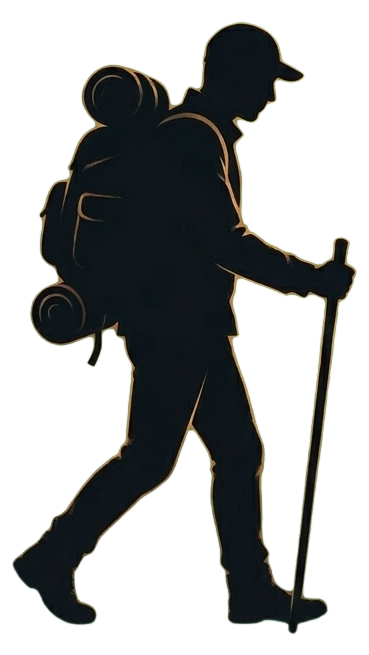
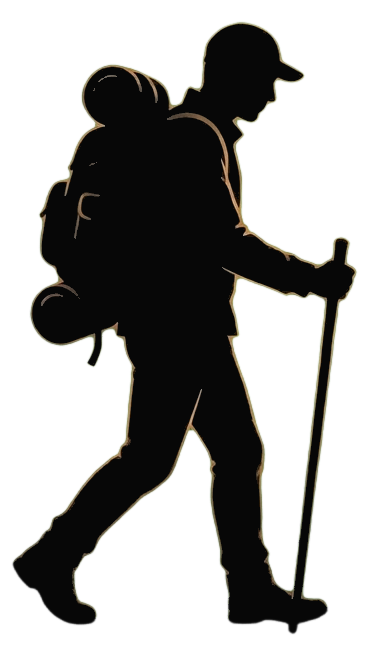
feat(mode-b): animate traveler states and camp scene
Add five supplied traveler states with transparent cutouts: walk-b, rest, arrive, walk-rain and camp-sit.

Runtime: alternate walk frames, rest after 20s idle, arrive at 90% of a leg, rain frame by weather, and seat the traveler beside the tent when camped. Add contact shadows so the character sits on the landscape.

Assets: add a white-background cutout pass, normalize walk fill to match the new states, keep originals in docs/journey-source/traveler, and document the state filenames/behavior in README, mode-b and the asset README.

Tests: 30 pass.

diff --git a/src/renderer/journey/journey-canvas.js b/src/renderer/journey/journey-canvas.js
@@ -243,9 +243,25 @@
     ctx.fill();
   }
 
+  function drawFootShadow(ctx, x, baseY, width, alpha = 0.3) {
+    ctx.save();
+    ctx.translate(x, baseY);
+    ctx.scale(1, 0.16);
+    const shadow = ctx.createRadialGradient(0, 0, 1, 0, 0, width);
+    shadow.addColorStop(0, `rgba(2, 7, 8, ${alpha})`);
+    shadow.addColorStop(0.7, `rgba(2, 7, 8, ${alpha * 0.45})`);
+    shadow.addColorStop(1, "rgba(2, 7, 8, 0)");
+    ctx.fillStyle = shadow;
+    ctx.beginPath();
+    ctx.arc(0, 0, width, 0, Math.PI * 2);
+    ctx.fill();
+    ctx.restore();
+  }
+
   function drawTraveler(ctx, state, time, assets) {
     const camped = Boolean(state.camped) || Boolean(state.runtime?.autoPaused) || Boolean(state.runtime?.paused);
     const progress = clamp(state.leg?.progress || 0, 0, 1);
+    const idleMs = Number(state.idleMs) || 0;
     // Walk the character across the strip as the leg advances, instead of
     // pinning them to one spot for the whole journey.
     const travelX = 236 + progress * 488;
@@ -271,15 +287,58 @@
       ctx.globalAlpha = 0.96;
       ctx.drawImage(image, x, y, width, height);
       ctx.restore();
+
+      if (assets.campSit) {
+        // The seated cutout includes its own log, so keep it in front of the
+        // tent and let the log provide the ground contact.
+        const sitHeight = 48;
+        const sitWidth = assets.campSit.width / assets.campSit.height * sitHeight;
+        const sitX = travelX - 46;
+        ctx.save();
+        ctx.translate(sitX, 176);
+        ctx.scale(1, 0.1);
+        const sitShadow = ctx.createRadialGradient(0, 0, 5, 0, 0, sitWidth * 0.68);
+        sitShadow.addColorStop(0, "rgba(2, 7, 8, 0.48)");
+        sitShadow.addColorStop(1, "rgba(2, 7, 8, 0)");
+        ctx.fillStyle = sitShadow;
+        ctx.beginPath();
+        ctx.arc(0, 0, sitWidth * 0.68, 0, Math.PI * 2);
+        ctx.fill();
+        ctx.restore();
+        ctx.save();
+        ctx.globalAlpha = 0.98;
+        ctx.drawImage(
+          assets.campSit,
+          sitX - sitWidth / 2,
+          176 - sitHeight,
+          sitWidth,
+          sitHeight,
+        );
+        ctx.restore();
+      }
       return;
     }
+
     if (!camped && assets?.traveler) {
-      const image = assets.traveler;
+      let image = assets.traveler;
+      // A leg's last stretch uses the arrival pose; a long pause uses the
+      // resting pose. Both are optional, so older asset folders still work.
+      if (idleMs >= 20000 && idleMs < 5 * 60 * 1000 && assets.rest) {
+        image = assets.rest;
+      } else if (progress >= 0.9 && assets.arrive) {
+        image = assets.arrive;
+      } else if (state.weather?.key === "rain" && assets.walkRain) {
+        image = assets.walkRain;
+      } else if (assets.walkB) {
+        const frame = Math.floor(time * 2.4) % 2 === 0 ? assets.walkB : assets.traveler;
+        image = frame || assets.walkB;
+      }
       const height = 54;
       const width = image.width / image.height * height;
-      const stride = Math.sin(time * 4.2);
-      const bob = stride * 1.2;
-      const lean = stride * 0.012;
+      const stride = state.weather?.key === "rain" ? Math.sin(time * 5.6) : Math.sin(time * 4.2);
+      const bob = image === assets.rest || image === assets.arrive ? 0 : stride * 1.2;
+      const lean = image === assets.rest || image === assets.arrive ? 0 : stride * 0.012;
+      drawFootShadow(ctx, travelX, 176, width * 0.72, image === assets.rest ? 0.2 : 0.3);
       ctx.save();
       ctx.translate(travelX, 176 + bob);
       ctx.rotate(lean);
@@ -422,7 +481,15 @@
     let last = 0;
     let start = 0;
     const backgrounds = [];
-    const assets = { traveler: null, camp: null };
+    const assets = {
+      traveler: null,
+      walkB: null,
+      rest: null,
+      campSit: null,
+      arrive: null,
+      walkRain: null,
+      camp: null,
+    };
 
     function resize() {
       dpr = Math.min(2, window.devicePixelRatio || 1);
@@ -476,6 +543,11 @@
         backgrounds[index] = await loadStage(`assets/backgrounds/${LEG_FILES[index]}`);
       }
       assets.traveler = await loadStage("assets/traveler/walk");
+      assets.walkB = await loadStage("assets/traveler/walk-b");
+      assets.rest = await loadStage("assets/traveler/rest");
+      assets.campSit = await loadStage("assets/traveler/camp-sit");
+      assets.arrive = await loadStage("assets/traveler/arrive");
+      assets.walkRain = await loadStage("assets/traveler/walk-rain");
       assets.camp = await loadStage("assets/props/camp");
     })();
 

diff --git a/src/renderer/journey/app.js b/src/renderer/journey/app.js
@@ -37,7 +37,7 @@
     else if (!state.today?.keys && !state.totalDistanceM) status.textContent = "等待出发";
     else if (state.camped) status.textContent = "扎营";
     else if (state.weather?.key === "rain") status.textContent = "雨里赶路";
-    else if ((state.idleMs || 0) > 10 * 60 * 1000) status.textContent = "停一会儿";
+    else if ((state.idleMs || 0) >= 20000) status.textContent = "停一会儿";
     else status.textContent = "正在赶路";
   }
 

diff --git a/scripts/prepare-journey-assets.py b/scripts/prepare-journey-assets.py
@@ -54,8 +54,8 @@ def crop_to_alpha(image, pad=0.035):
     )
 
 
-def cutout_traveler():
-    image = Image.open(SOURCE / "walk.jpg").convert("RGB")
+def cutout_green(source_path):
+    image = Image.open(source_path).convert("RGB")
     rgb = np.asarray(image).astype(np.float32)
     red, green, blue = rgb[..., 0], rgb[..., 1], rgb[..., 2]
     # Green screen: G is far above R/B on the background, never on the figure.
@@ -65,9 +65,47 @@ def cutout_traveler():
     mask = mask.filter(ImageFilter.MinFilter(3)).filter(ImageFilter.GaussianBlur(0.5))
     result = image.convert("RGBA")
     result.putalpha(mask)
-    result = crop_to_alpha(result)
+    return crop_to_alpha(result)
+
+
+def cutout_white(source_path):
+    image = Image.open(source_path).convert("RGB")
+    # Some models add a thin dark frame around the bitmap; drop it first.
+    image = image.crop((3, 3, image.width - 3, image.height - 3))
+    rgb = np.asarray(image).astype(np.float32)
+    mx, mn = rgb.max(2), rgb.min(2)
+    saturation = mx - mn
+    luma = rgb[..., 0] * 0.299 + rgb[..., 1] * 0.587 + rgb[..., 2] * 0.114
+    # The figure is near-black or warm/saturated; the paper is bright and
+    # almost neutral. This also disposes of the thin border.
+    alpha = np.maximum(smoothstep(saturation, 4, 18), smoothstep(235 - luma, 0, 40))
+    mask = Image.fromarray((alpha * 255).astype(np.uint8), "L")
+    mask = mask.filter(ImageFilter.MinFilter(3)).filter(ImageFilter.GaussianBlur(0.5))
+    result = image.convert("RGBA")
+    result.putalpha(mask)
+    return crop_to_alpha(result)
+
+
+def cutout_traveler():
+    result = cutout_green(SOURCE / "walk.jpg")
     result.save(ASSETS / "traveler" / "walk.png", optimize=True)
     return result.size
+
+
+def cutout_traveler_states():
+    states = [
+        ("walk-b.jpg", "walk-b.png", cutout_white),
+        ("rest.jpg", "rest.png", cutout_green),
+        ("camp-sit.jpg", "camp-sit.png", cutout_green),
+        ("arrive.jpg", "arrive.png", cutout_green),
+        ("walk-rain.jpg", "walk-rain.png", cutout_green),
+    ]
+    for source_name, output_name, cutter in states:
+        result = cutter(SOURCE / "traveler" / source_name)
+        # Keep every state aligned to the same character height in the canvas:
+        # the alpha crop already removes the source margin.
+        result.save(ASSETS / "traveler" / output_name, optimize=True)
+        print(f"traveler state {output_name}: {result.size}")
 
 
 def cutout_camp():
@@ -119,6 +157,7 @@ def main():
         print(f"background {output_name}: {plate.size} (source top {top})")
 
     print("traveler", cutout_traveler())
+    cutout_traveler_states()
     print("camp", cutout_camp())
 
 

diff --git a/docs/journey-character-prompts.md b/docs/journey-character-prompts.md
@@ -16,11 +16,11 @@
 | P0 | 营地坐姿 | `traveler/camp-sit.png` | 扎营后坐在火边，营地不再空 | 推荐 |
 | P1 | 短休息 | `traveler/rest.png` | 停止输入 20 秒～5 分钟，尚未扎营 | 推荐 |
 | P2 | 到达地标 | `traveler/arrive.png` | 路段进度 90%～100%，到达下一站 | 可选 |
-| P2 | 雨天行走 | `traveler/rain.png` | 雨天，略微缩肩、压低重心 | 可选 |
+| P2 | 雨天行走 | `traveler/walk-rain.png` | 雨天，略微缩肩、压低重心 | 可选 |
 
 **结论：** 当前主循环最低只需要 `walk` + 营地；但要让“他在赶路”这件事成立，最值得补的是 **walk-b（步态）** 和 **camp-sit（营地有人）**。`rest` 次之，`arrive` / `rain` 属于锦上添花。
 
-> 现在代码只加载 `walk.png` 和 `camp.png`。上面的新状态图产好后，我再把画布状态机接上：行走交替、停留/扎营切换、到站停顿。
+> 代码现已接上 5 个状态：行走双帧、休息、到达、雨天、营地坐姿。图片缺失时会保持上一状态或退回代码绘制的小人。
 
 ---
 
@@ -47,7 +47,7 @@ photorealistic, 3D render, colored clothing, visible face, facial features, skin
 
 ## P0 · 行走第二帧 `walk-b.png`
 
-用途：和 `walk.png` 每 0.28～0.35 秒交替一次。两张图的**脚底位置、角色高度、背包和帽子**必须完全一致，只换腿和手臂。
+用途：和 `walk.png` 每 0.42 秒交替一次。两张图的**脚底位置、角色高度、背包和帽子**必须完全一致，只换腿和手臂。
 
 ```text
 A single full-body side-view silhouette of the same traveler as the reference image: a slim hiker facing right, black matte silhouette (#0A0B0C), thin warm amber rim light (#D9A05B) only along the top and back edges of the cap, backpack, shoulders, arms, legs and trekking pole, no facial features, no interior detail, no texture, no cast shadow, no ground, clean vector-like edges, transparent background, 1024x1024, character occupies about 78% of the frame height, feet near the bottom margin, centered.
@@ -97,7 +97,7 @@ Pose: standing at the crest of a small rise, side view facing right, chest open,
 
 ---
 
-## P2 · 雨天行走 `rain.png`（可选）
+## P2 · 雨天行走 `walk-rain.png`（可选）
 
 用途：雨天。若不想增加一张图，也可以用现有 `walk.png` + 画布雨丝/压暗层，不一定要新图。
 
@@ -114,7 +114,7 @@ Pose: walking to the right through rain, shoulders slightly hunched, head lowere
 1. 先用 `walk.png` 做 **image-to-image / character reference**，强度 0.35～0.5，保持剪影、背包、帽子、杖长不变
 2. 先出 `walk-b`，确认与 `walk` 的脚底、头高、背包轮廓对齐
 3. 再出 `camp-sit`（姿态变化最大，但身份特征要保留）
-4. 最后出 `rest`；`arrive` / `rain` 有余力再做
+4. 最后出 `rest`；`arrive` / `walk-rain` 有余力再做
 5. 每张都输出绿幕版；抠图后检查边缘有没有绿边/白边
 6. 所有图统一裁到角色外接框 + 8% 留白，保持脚底对齐
 
@@ -127,17 +127,17 @@ src/renderer/journey/assets/traveler/
   rest.png        # 新
   camp-sit.png    # 新
   arrive.png      # 可选
-  rain.png        # 可选
+  walk-rain.png   # 可选
 ```
 
 ## 代码接入
 
 接入时只改 `src/renderer/journey/journey-canvas.js` 的 `drawTraveler()`：
 
-- 行走：`walk` / `walk-b` 按时间交替
+- 行走：`walk` / `walk-b` 按时间交替（约 0.42 秒换一帧）
 - 短休息：`rest`
 - 扎营：`camp` + `camp-sit`
 - 到站：`arrive`
-- 天气：`rain`，没有则继续用 `walk`
+- 天气：`walk-rain`，没有则继续用 `walk`
 
 所有状态图都是可选的；文件缺失时继续用 `walk.png` 或代码剪影回退。位置仍由路段进度控制，不会因为换状态而回到固定点。

diff --git a/src/renderer/journey/assets/README.md b/src/renderer/journey/assets/README.md
@@ -31,13 +31,32 @@ The renderer crossfades to the next plate near the end of a leg.
 ## Props
 
 ```
-traveler/walk.png    # walking traveler cutout, 369×655
-props/camp.png       # tent + campfire cutout, 1028×495
+traveler/walk.png       # walking traveler cutout, 369×655
+traveler/walk-b.png     # second walking frame, 560×998
+traveler/rest.png       # standing rest pose, 531×939
+traveler/arrive.png     # arrival pose, 416×893
+traveler/walk-rain.png  # rain-coat walking pose, 554×911
+props/camp.png          # tent + campfire cutout, 1028×495
+traveler/camp-sit.png   # seated traveler with log, 762×928
 ```
 
-The supplied `walk.jpg` / `camp.jpg` were chroma/white-background images, so
-the PNGs here are cutouts with their backgrounds removed. If they are missing,
-the original silhouette traveler / code-drawn tent is used.
+The supplied `walk.jpg` / `camp.jpg` and the five state JPGs are
+chroma/white-background images. The PNGs here are alpha cutouts with their
+backgrounds removed; the originals live in
+[`docs/journey-source/traveler/`](../../../../docs/journey-source/traveler/)
+and can be rebuilt with `scripts/prepare-journey-assets.py`.
+
+Runtime selection:
+
+- walking: `walk.png` and `walk-b.png` alternate every ~0.42s
+- resting: `rest.png` after 20s without keys (but before the 5min camp)
+- arriving: `arrive.png` at 90% of a leg
+- rain: `walk-rain.png` when the current weather is rain
+- camp: `camp.png` plus `camp-sit.png`, with the seated figure in front of the tent
+
+If any file is missing, the renderer keeps the previous image or falls back to
+the original silhouette traveler / code-drawn tent. Adding a replacement with
+the same filename requires no code change.
 
 ## Prompt pack
 

diff --git a/docs/mode-b.md b/docs/mode-b.md
@@ -29,6 +29,18 @@
 - 手帐面板上的按钮可以直接在 A / B 之间切换
 - 原来的“游戏模式”卡片里，B 已从 `SOON` 改为 `可切换`
 - 已接入 6 张 24:5 风景背景（原图 2.35:1，按场景焦点裁切）、旅人 `walk.png` 和营地 `camp.png` 透明贴图；提示词见 [journey-image-prompts.md](journey-image-prompts.md)，放置路径见 [assets/README.md](../src/renderer/journey/assets/README.md)
+- 旅人现在有 5 个状态：两帧行走（`walk` / `walk-b`）、休息、到达、雨天、营地坐姿。状态按下面的规则切换，不是随机播放
+
+| 状态 | 触发条件 | 表现 |
+| --- | --- | --- |
+| 行走 | 正在推进，且没有触发其他状态 | 两帧交替，身体轻微上下浮动 |
+| 休息 | 连续 20 秒没有按键，但还没到 5 分钟扎营 | 停下、拄杖站定，不再做行走浮动 |
+| 到达 | 当前路段进度 ≥ 90% | 到达姿势，提醒下一段就在前面 |
+| 雨天 | 当前天气是 `rain` | 换成长外套的雨天行走帧 |
+| 扎营 | 停下超过 5 分钟 / 自动暂停 / 手动暂停 | 帐篷、篝火和坐在木头上的人一起出现 |
+
+这些状态都按“有图就用、缺图就退回上一状态或代码绘制”的规则加载；替换同名 PNG 即可，不需要改代码。
+
 
 ## 代码
 

diff --git a/README.md b/README.md
@@ -41,7 +41,7 @@ B 的实现说明：[Mode B · 桌边远行](docs/mode-b.md)
 
 你工作，他赶路；你停下，他扎营。手帐里的 Mode B 面板可以直接切换到这条底部风景带。实现说明见 [docs/mode-b.md](docs/mode-b.md)。
 
-B 的美术素材提示词（6 张背景 + 旅人 + 营地，按图拆分）：[docs/journey-image-prompts.md](docs/journey-image-prompts.md)。当前代码绘制的风景是素材缺失时的 fallback。
+B 的美术提示词：[背景/旅人/营地](docs/journey-image-prompts.md)、[5 个角色状态](docs/journey-character-prompts.md)。背景、行走帧、休息/到达/雨天/扎营坐姿都已接入；只有素材缺失时才退回代码绘制的风景和小人。
 
 ## 功能
 
@@ -57,6 +57,7 @@ B 的美术素材提示词（6 张背景 + 旅人 + 营地，按图拆分）：[
 - 本地 JSON 存档，无网络
 - 游戏模式选择器：A 已开放，B 已可切换进入，C 预留
 - B 模式：底部旅行风景带、路程推进、扎营、纪念品与旅行明信片
+- B 角色状态：两帧行走、休息、到达、雨天、营地坐姿，随路程/停顿/天气切换
 - 自动锁屏/休眠暂停观察器
 - 单元测试覆盖节奏分类、日切、成长、明信片、上限、B 路线与模式切换
 
